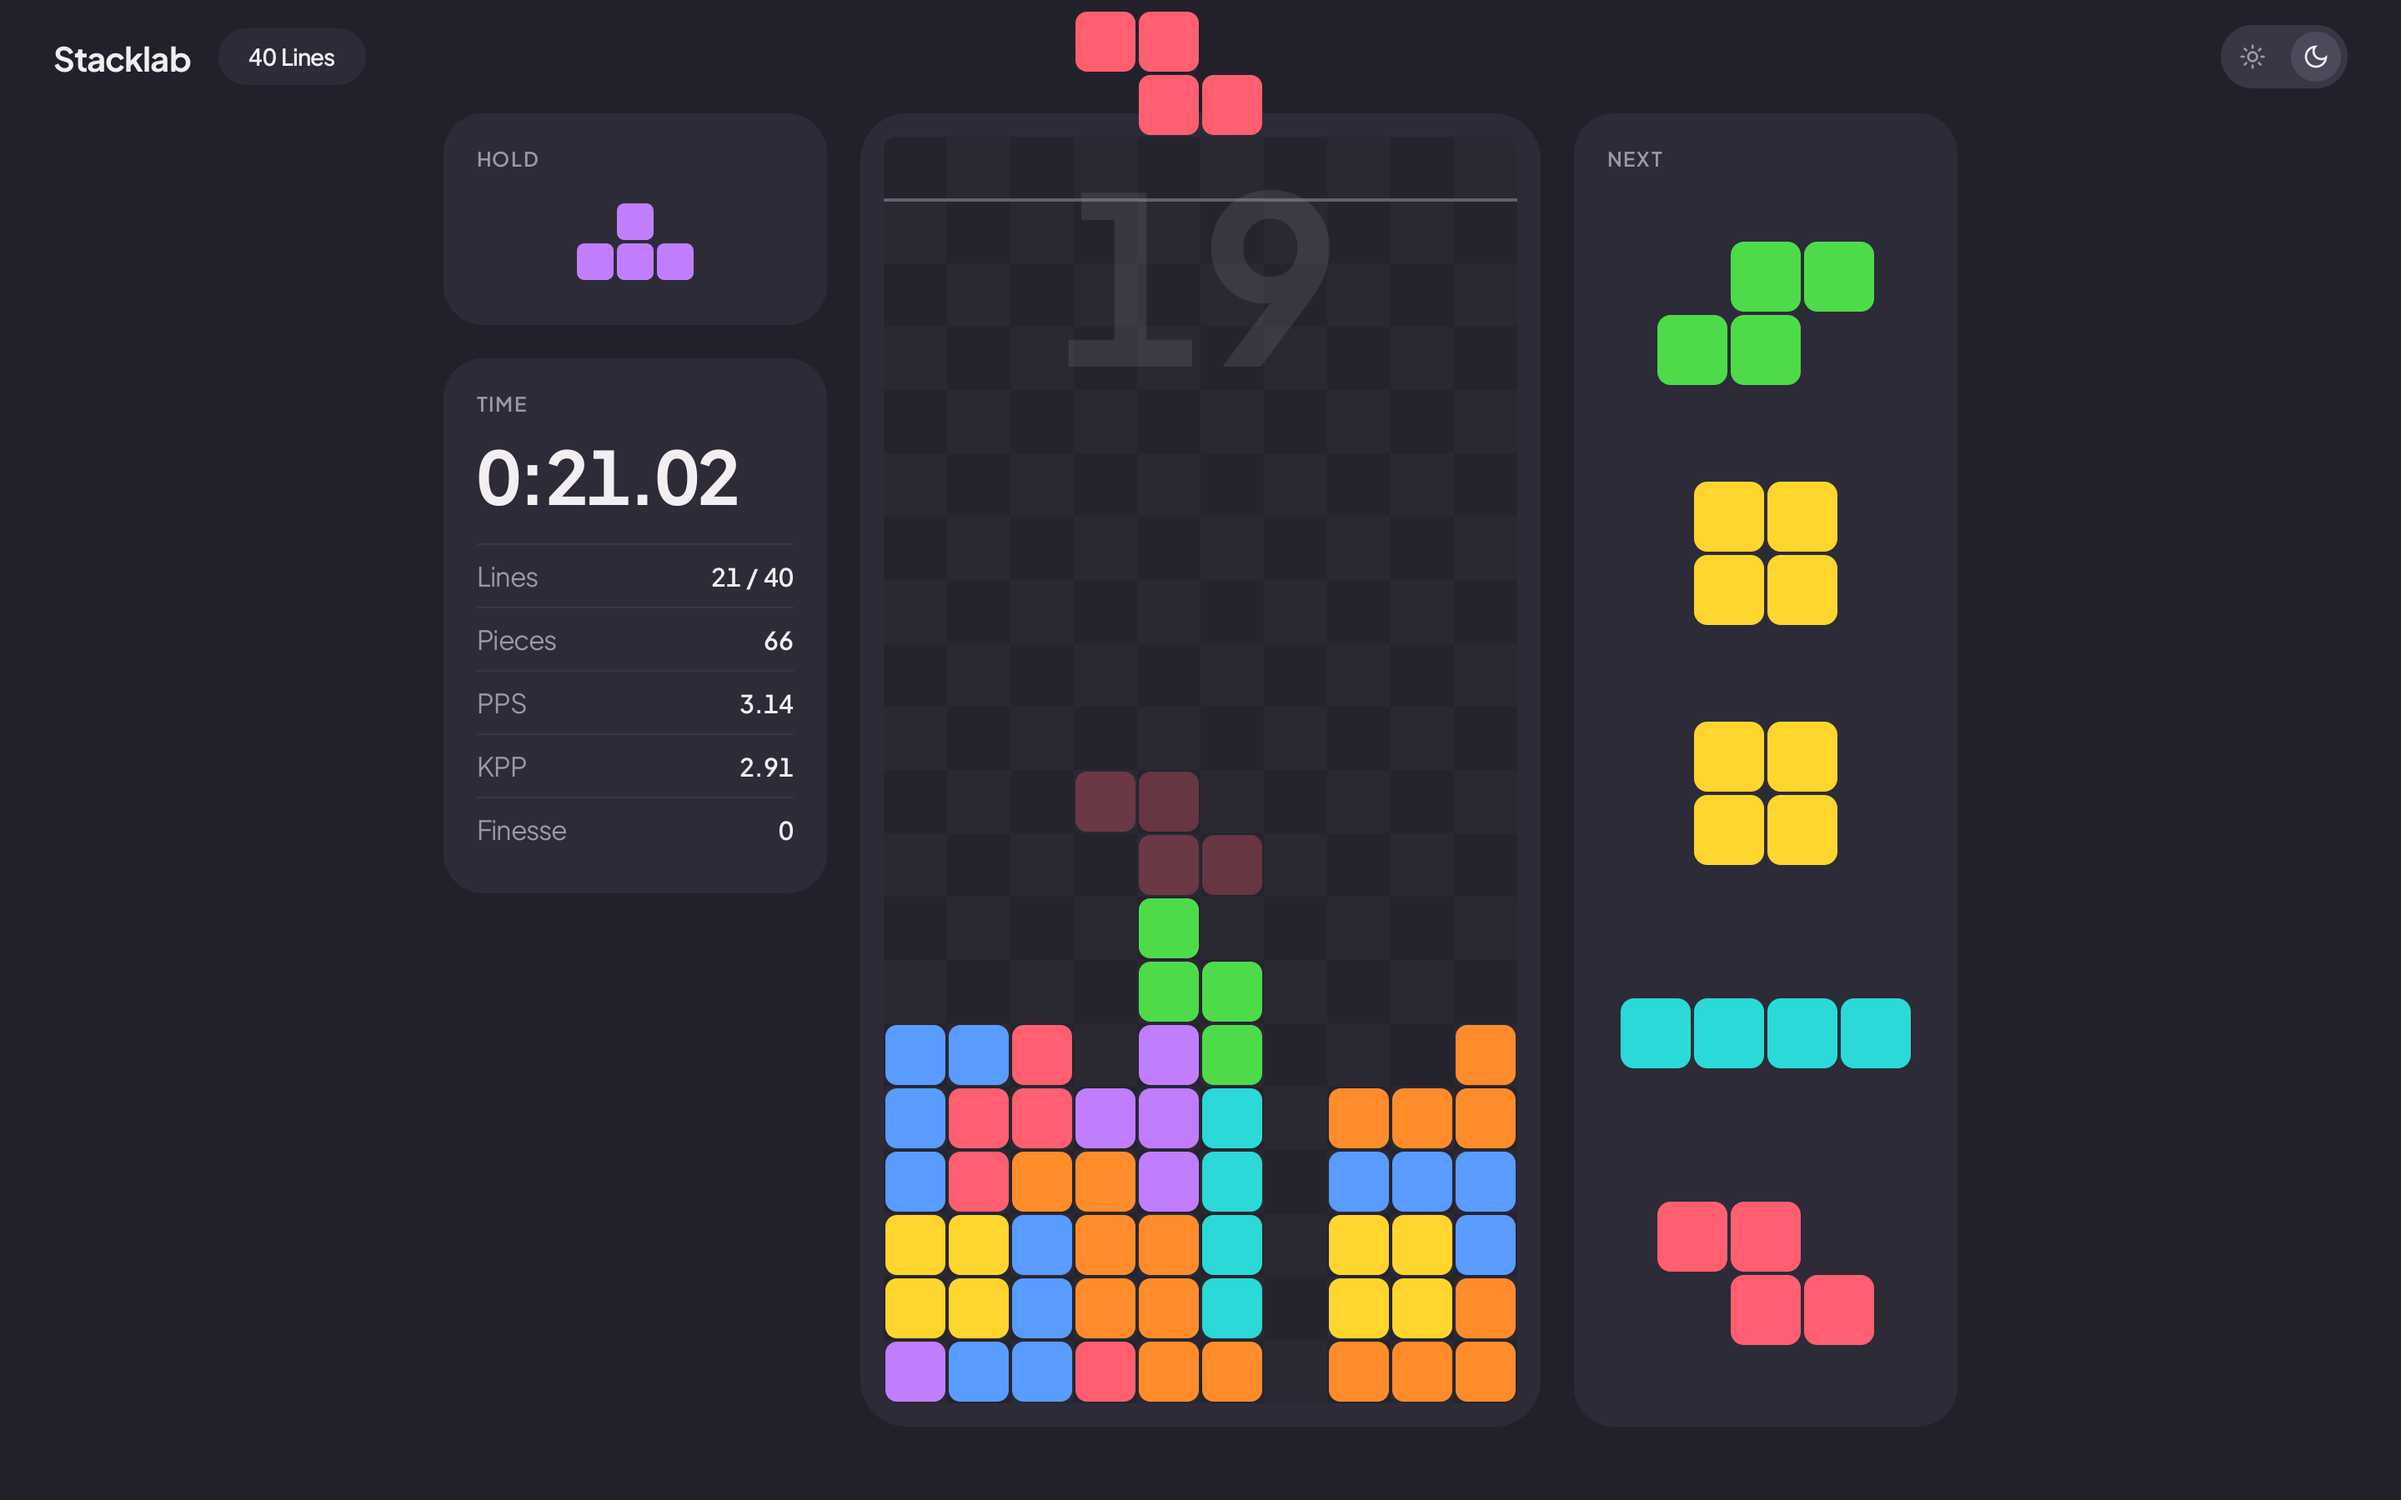
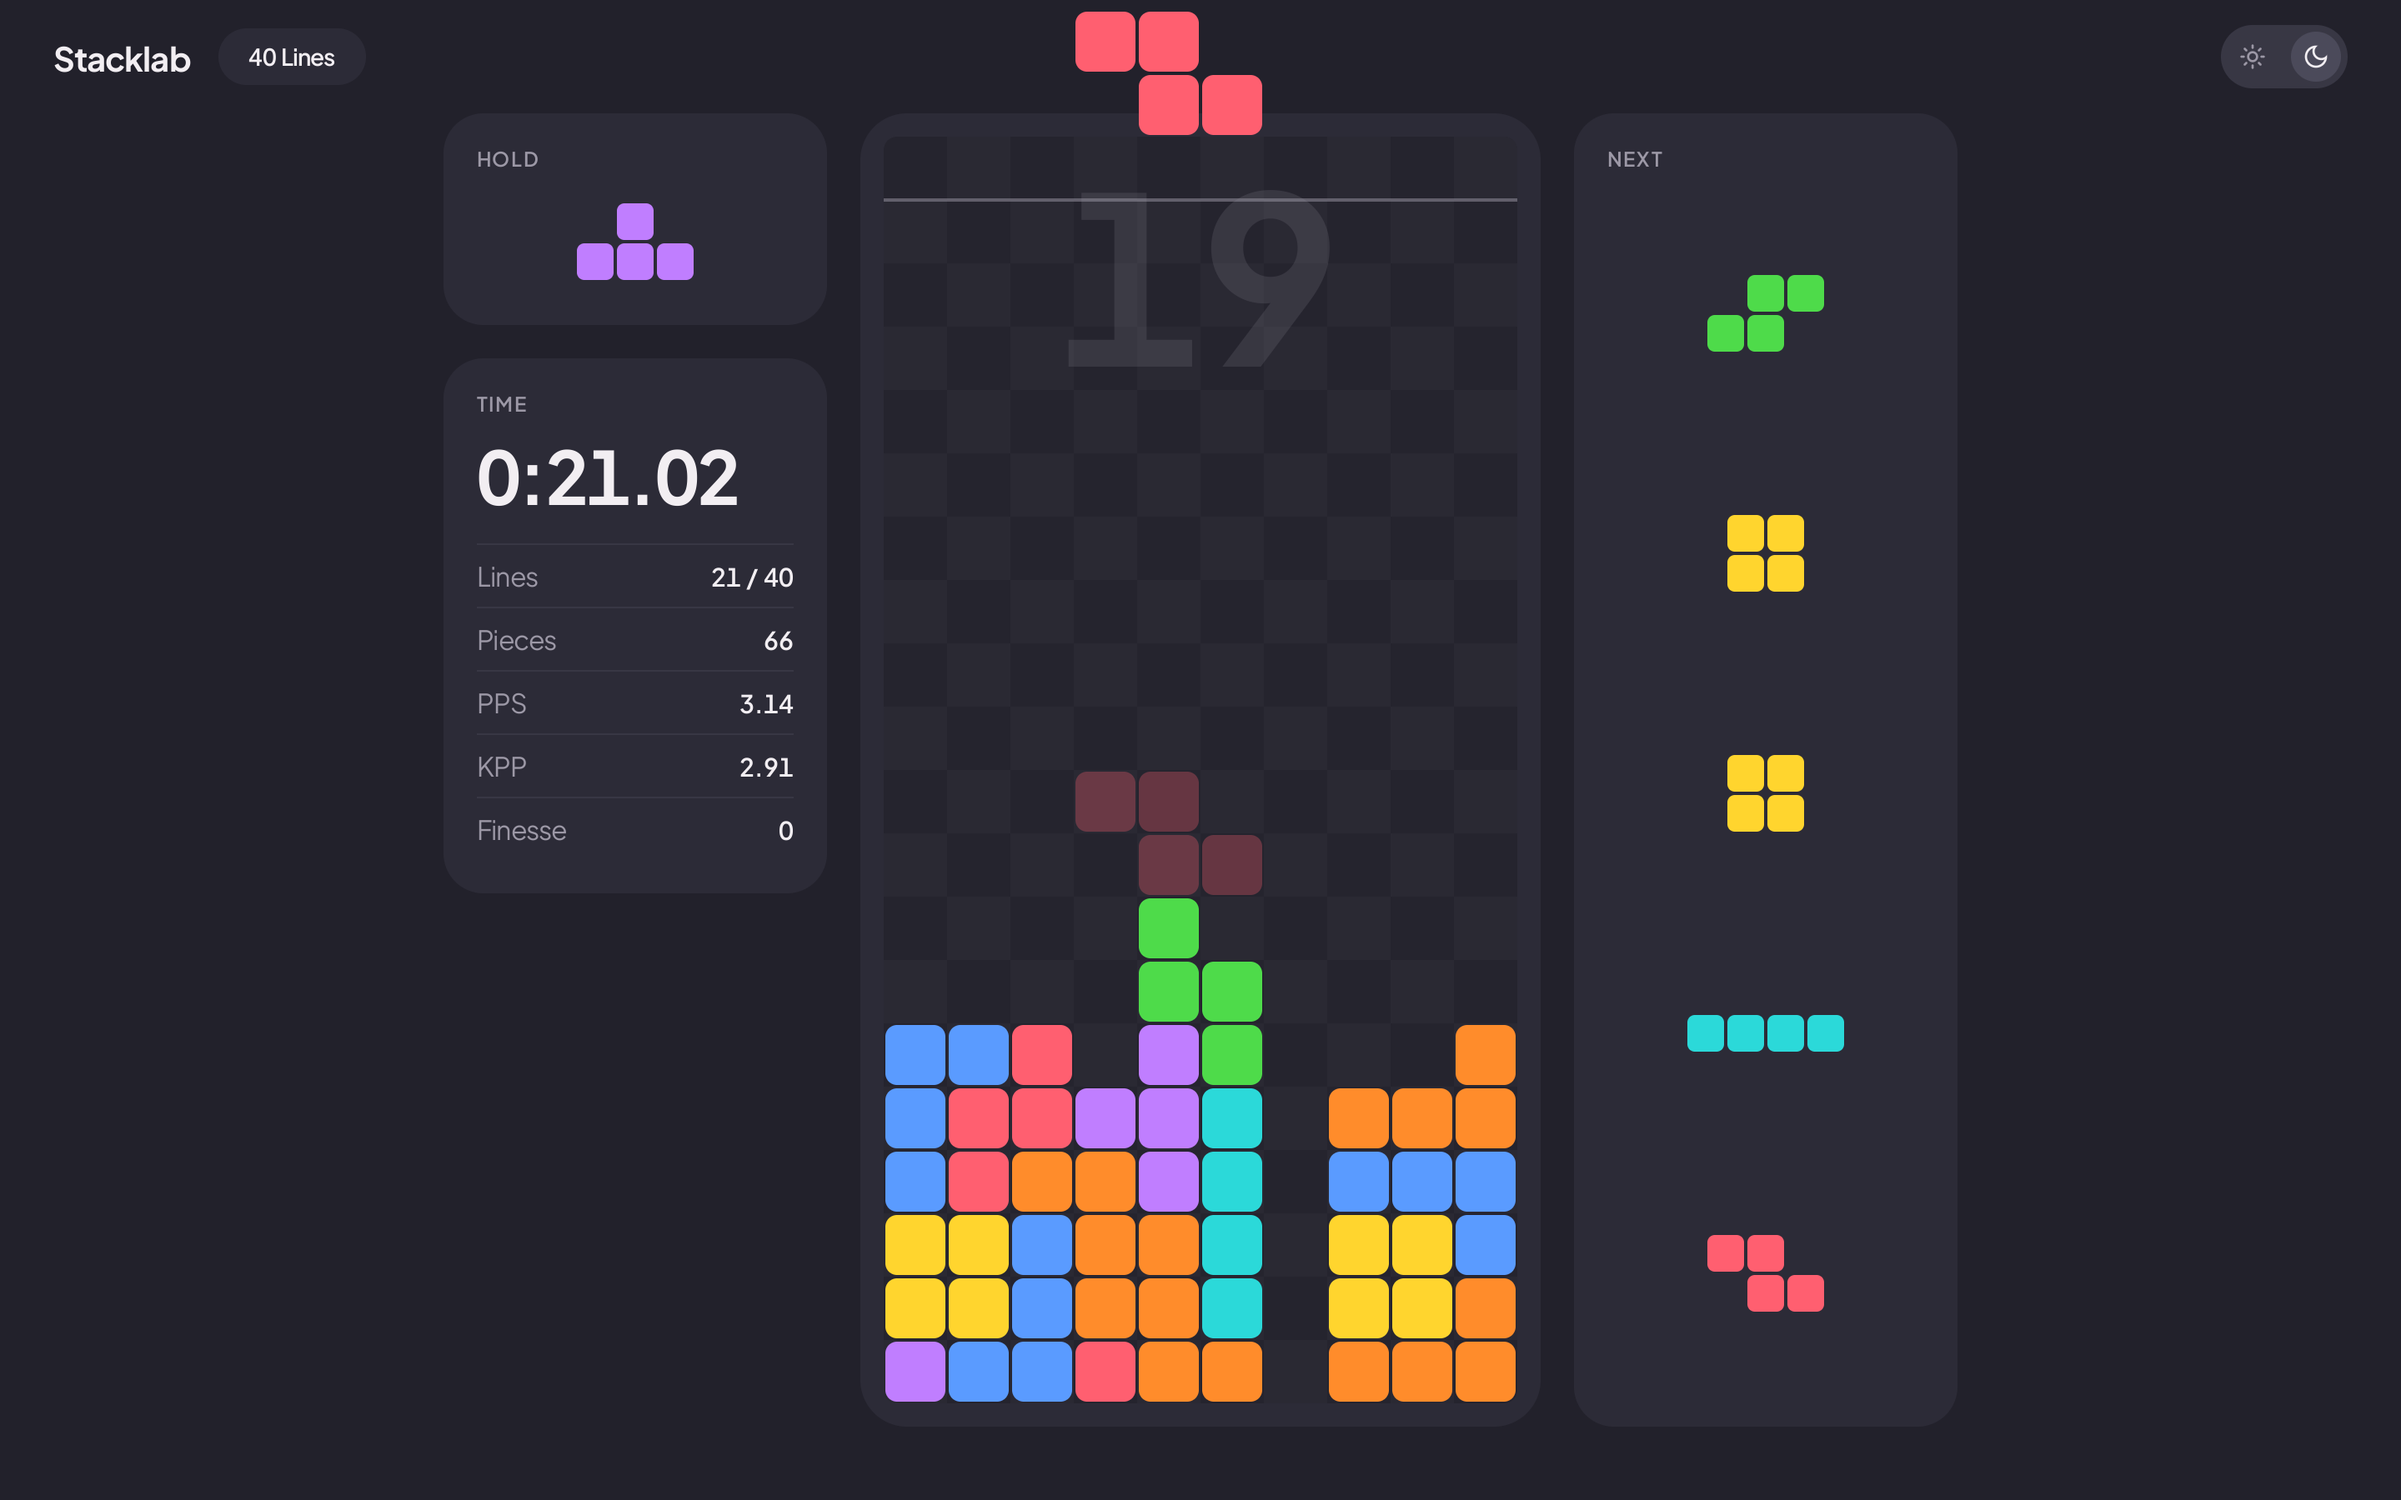
Draw the next queue's pieces as big as hold's

diff --git a/app/ui.cpp b/app/ui.cpp
@@ -34,7 +34,7 @@ constexpr float kToggleW = 76, kToggleH = 38, kBarSide = 32;
 constexpr float kLabelTracking = 1.1f;
 constexpr float kTimeTracking = -1.32f;
 constexpr float kSetupRowsH = 108;  // PC practice's setup lines on the coach card
-constexpr float kHoldCell = 24, kNextCell = 44, kNextSlot = 144;
+constexpr float kHoldCell = 24, kNextSlot = 144;
 
 constexpr const char* kFontFiles[] = {"PlusJakartaSans-Regular.ttf", "PlusJakartaSans-SemiBold.ttf", "PlusJakartaSans-Bold.ttf"};
 struct FontSpec {
@@ -709,10 +709,9 @@ void Ui::drawPlay(const PlayView& view) {
         return;
     }
 
-    // Large, because the owner reads the queue in peripheral vision.
     card(kRightX, kRowY, kColumnW, 788, "NEXT");
     // Fixed slots, so the queue doesn't jump as flat I pieces pass through it.
-    for (int i = 0; i < 5 && i < static_cast<int>(game.queue.size()); i++) preview(game.queue[i], kRightX + kColumnW / 2, kRowY + 120 + kNextSlot * i, kNextCell);
+    for (int i = 0; i < 5 && i < static_cast<int>(game.queue.size()); i++) preview(game.queue[i], kRightX + kColumnW / 2, kRowY + 120 + kNextSlot * i, kHoldCell);  // as big as hold's
 
     if (view.banner) text(FontTime, view.banner, kBoardX + 190, kBoardY + 396, colors.text, Align::Center);
     if (view.banner) text(FontRow, view.hint, kBoardX + 190, kBoardY + 428, colors.muted, Align::Center);
